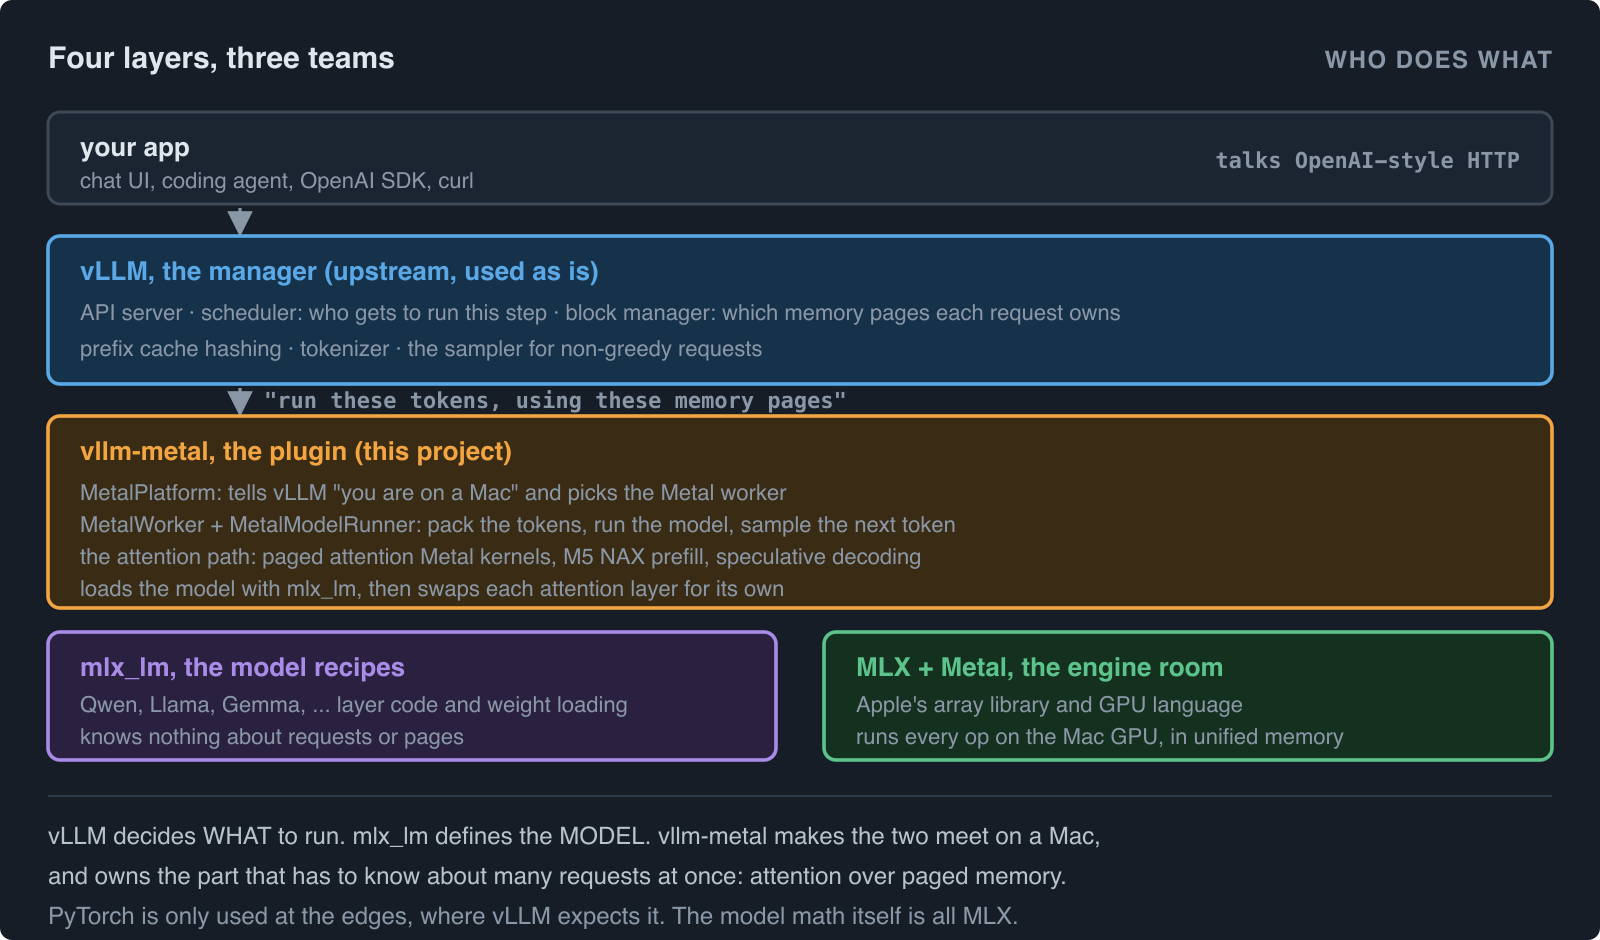
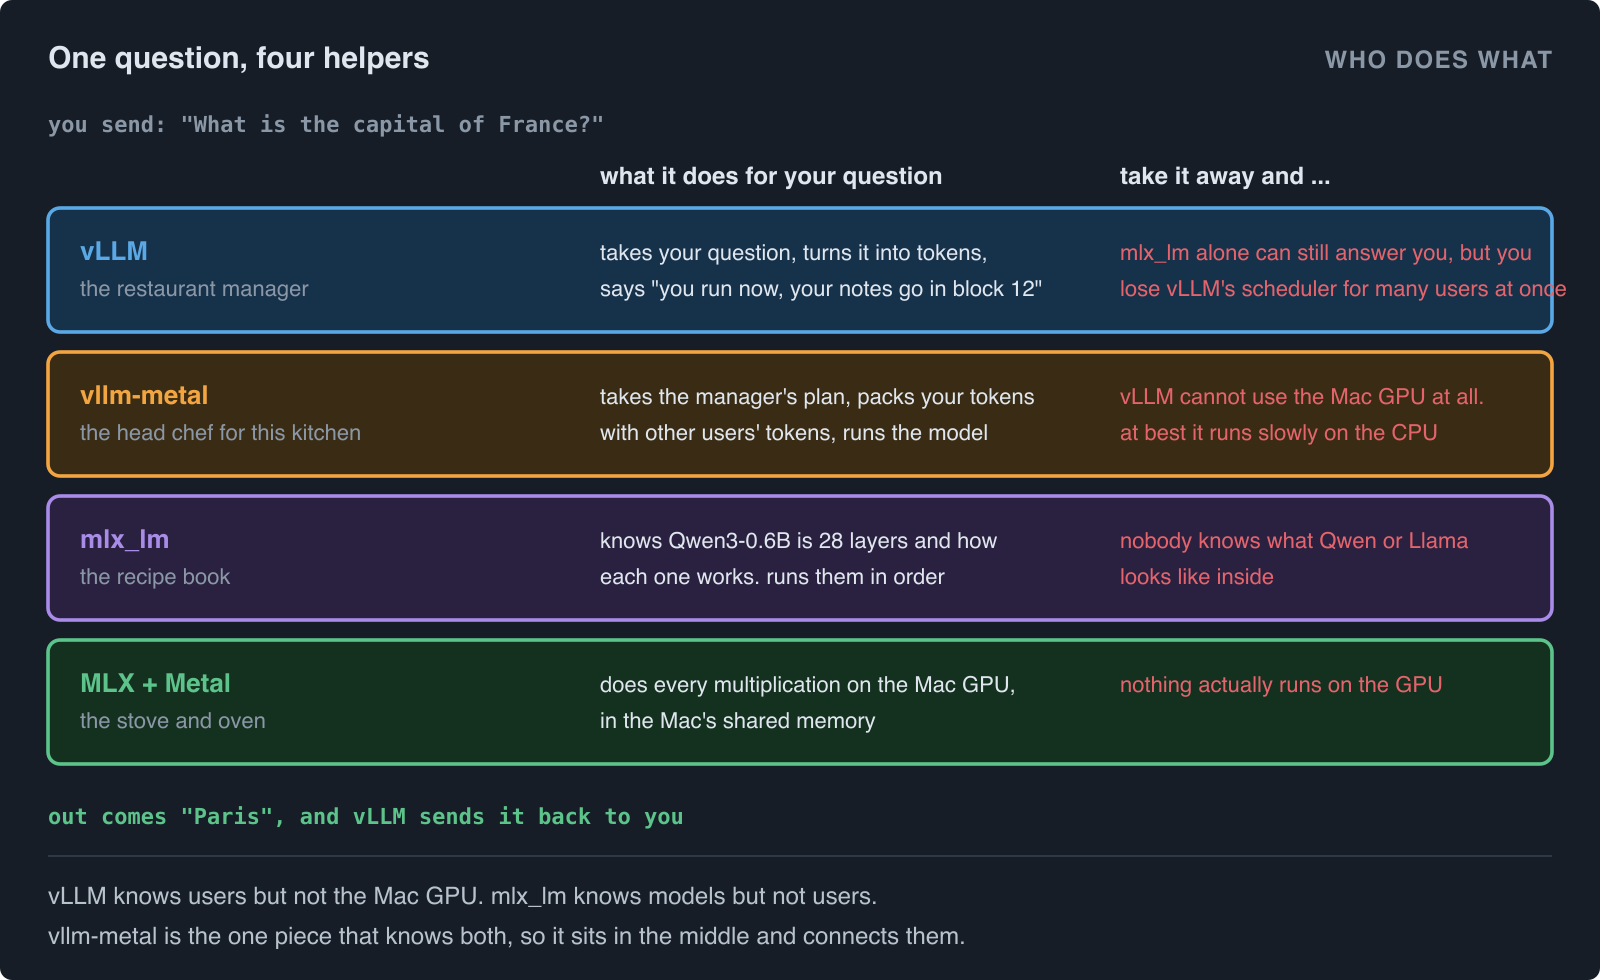
vllm-metal guide: explain the four pieces with a restaurant, one real question, and what breaks without each

diff --git a/vllm-metal/blog.md b/vllm-metal/blog.md
@@ -65,21 +65,51 @@ vllm-metal solves this by keeping all the parts of vLLM that do not care about t
 
 ## The big picture: who does what
 
-It helps to think of the system as a small team where each member has one job.
+There are four pieces, and the names sound alike, which is why they are easy to mix up. The easiest way to keep them apart is to remember **what each one knows about, and what it has no idea about**.
 
-**vLLM is the manager.** It runs the web server that apps talk to, turns text into tokens, and decides every step which requests get to run and how many tokens each one gets. It also keeps track of which pieces of memory belong to which request. vllm-metal uses this part of vLLM as it is.
+| Piece | Think of it as | Knows about | Has no idea about |
+|---|---|---|---|
+| **vLLM** | the restaurant manager | users, requests, who goes next, which memory belongs to whom | how to use a Mac GPU |
+| **mlx_lm** | the recipe book | how each model is built, layer by layer, and how to load its weights | users, requests, sharing memory between them |
+| **vllm-metal** | the head chef who connects the two | vLLM's plan, mlx_lm's models, and the Mac GPU | deciding who goes next (it asks vLLM) |
+| **MLX + Metal** | the stove and oven | doing maths fast on the Mac GPU | what a model or a user even is |
 
-**vllm-metal is the plugin, and this project.** It tells vLLM "you are on a Mac", provides the worker that actually runs the model each step, and owns the most delicate part: attention over memory that is shared by many requests. It brings its own GPU kernels, written in Metal, for that.
+### The restaurant version
 
-**mlx_lm is the recipe book.** It knows how each model family is put together, and how to load its weights. It has no idea about servers, requests or shared memory. It just runs a model.
+Picture a busy restaurant.
 
-**MLX and Metal are the engine room.** Every bit of math finally runs on the Mac GPU through MLX, in unified memory.
+- **The manager (vLLM)** takes orders from many tables, decides which dishes get cooked next, and keeps track of which plate belongs to which table. The manager never cooks.
+- **The recipe book (mlx_lm)** says exactly how to make each dish. But it was written for cooking one dish at home, for one person.
+- **The stove and oven (MLX and Metal)** just apply heat to whatever you put on them. They don't know what a dish is.
+- **The head chef (vllm-metal)** reads the manager's tickets, follows the recipes, and works out how to cook twenty orders at once on this particular stove, while sharing one fridge between all of them. That shared fridge is the KV cache, which comes up again below.
 
-![Who does what. Upstream vLLM runs the API server, the scheduler and the block manager. vllm-metal replaces the worker, the model runner and the attention. mlx_lm provides the model layers. MLX and Metal run everything on the Apple GPU](images/02-who-does-what.png)
+vLLM was built for restaurants with NVIDIA kitchens. vllm-metal is what lets the same manager run a restaurant with an Apple kitchen.
 
-The project's own summary of this is: *upstream vLLM schedules, mlx_lm defines the model, vllm-metal owns the attention path.*
+### One real question, step by step
 
-One detail surprises most people. vllm-metal tells PyTorch that the device is `"cpu"` (`vllm_metal/platform.py`, around line 98). That is on purpose. PyTorch is only used at the edges, where vLLM's code expects PyTorch objects, like the sampler. The actual model math never touches PyTorch. It is all MLX.
+Say you send `What is the capital of France?` to a Mac running Qwen3-0.6B.
+
+1. **vLLM** receives it, turns the words into token ids, and decides: "this request runs in the next step, and its notes go into memory block 12".
+2. **vllm-metal** gets that plan, packs your tokens together with the tokens of everyone else being served right now, and calls the model.
+3. **mlx_lm** runs Qwen3-0.6B's 28 layers in order. It knows exactly what each layer does, because that is all it knows.
+4. Inside each layer's attention step, **vllm-metal** steps in with its own code: it writes your notes into block 12, and reads them back when needed.
+5. **MLX and Metal** do every multiplication along the way on the Mac GPU.
+6. Out comes `Paris`. vLLM sends it back to you, and the loop repeats for the next word.
+
+![One question, four helpers. vLLM is the manager that takes the question and plans the step. vllm-metal is the head chef that runs the plan on a Mac. mlx_lm is the recipe book that knows how the model is built. MLX and Metal are the stove that does the maths on the GPU](images/02-who-does-what.png)
+
+### Take one away
+
+Another good way to see the difference is to ask what breaks if one piece is missing.
+
+- **No vLLM:** mlx_lm on its own can still answer you. But you lose vLLM's scheduler, the part that serves many users at once without wasting memory.
+- **No vllm-metal:** vLLM has no way to use the Mac GPU. At best it falls back to a slow CPU mode.
+- **No mlx_lm:** nobody knows what Qwen or Llama looks like inside, so there is no model to run.
+- **No MLX and Metal:** nothing actually runs on the GPU.
+
+So vLLM knows users but not the Mac GPU, and mlx_lm knows models but not users. vllm-metal is the one piece that knows both, so it sits in the middle and connects them. The project sums it up in one line: *upstream vLLM schedules, mlx_lm defines the model, vllm-metal owns the attention path.*
+
+One small detail, in case you read the code: vllm-metal tells PyTorch the device is `"cpu"` (`vllm_metal/platform.py`, around line 98). That is on purpose. vLLM expects PyTorch objects in a few places, like the sampler, so PyTorch is kept around for those. The model's actual maths never touches PyTorch. It is all MLX.
 
 ## Try it yourself
 
